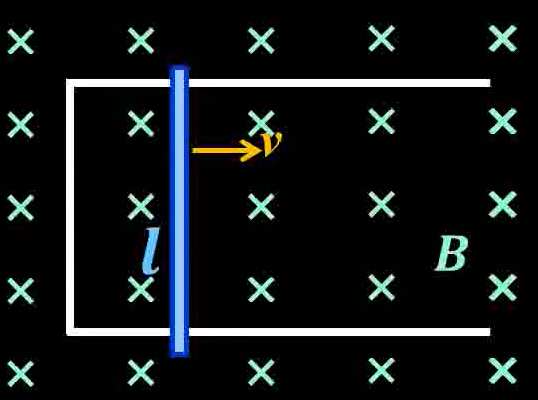
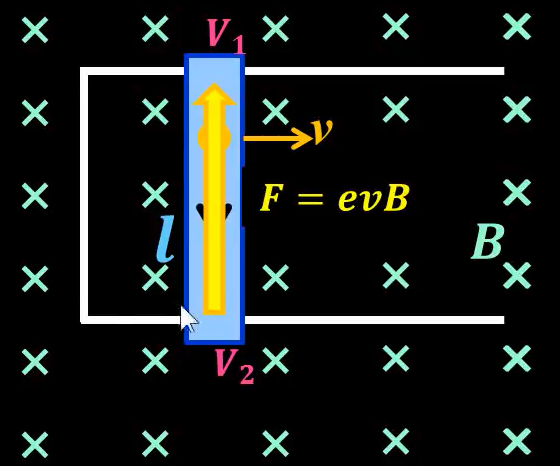
up

diff --git a/_posts/2020-02-19-magnetic2.md b/_posts/2020-02-19-magnetic2.md
@@ -60,7 +60,19 @@ $$
 \begin{aligned}
 \varepsilon_av&=-N\frac{\Delta \Phi_{B}}{\Delta t} \\
 &=-N\frac{B \cdot \Delta A}{\Delta t}\\
-&=-N\frac{B \cdot lv\Delta t}{\Delta t}
+&=-N\frac{B \cdot lv\Delta t}{\Delta t}\\
 &=-NlvB
 \end{aligned}
+$$
+
+由[載流導線在磁場中所受的磁力](https://chchoiw.github.io/posts/2020/02/magnetic/#mjx-eqn-Lorentz%20force)得知, 磁力$F$作功
+
+$$
+W=Fl=qvBl
+$$
+
+會轉化為電位能
+
+$$
+qvBl=q(V_2-V_1) \implies V_2-V_1=vBl
 $$
